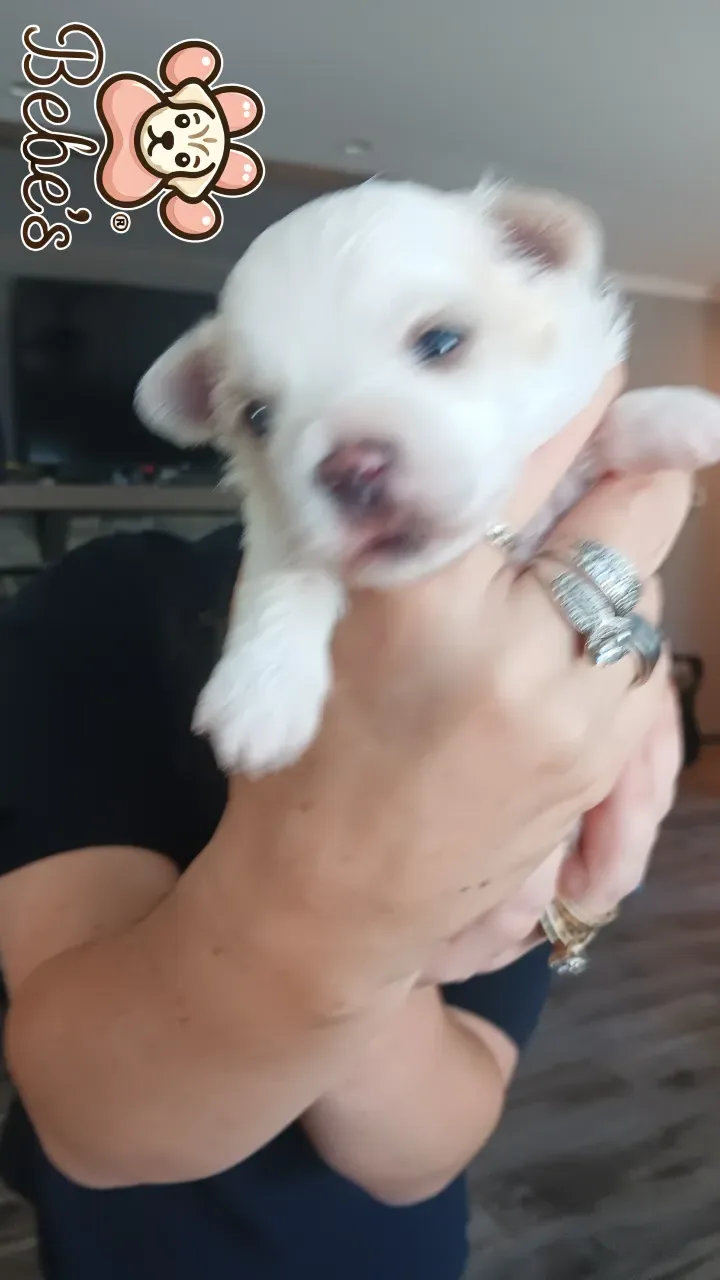
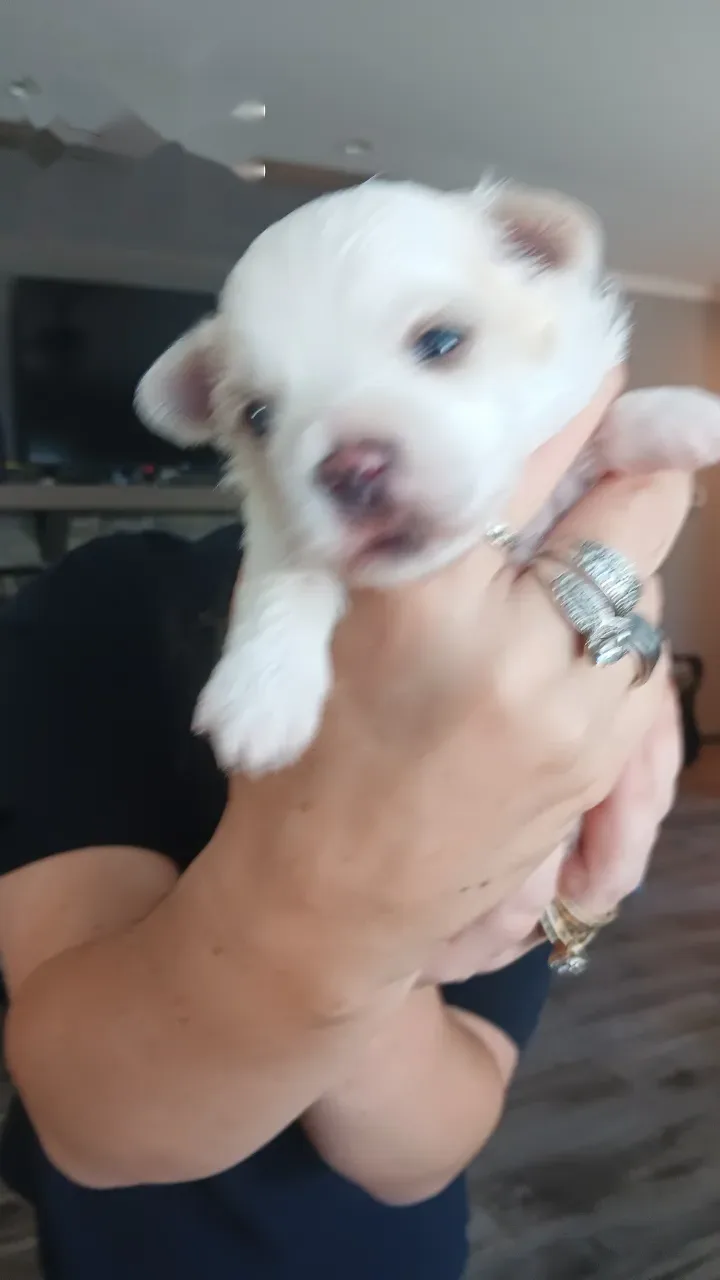
BeBe's: portrait photo frames so puppies aren't cropped out; inpaint rotated watermark

Changed region(s): [[0.0306, 0.0, 0.3667, 0.2188]]

diff --git a/preview/bebes-puppies/site.css b/preview/bebes-puppies/site.css
@@ -115,7 +115,8 @@ p{margin:0 0 1em}
 /* litters strip (home) */
 .litters{display:grid;grid-template-columns:repeat(4,1fr);gap:18px}
 .litter{position:relative;display:block;text-decoration:none;color:inherit;background:#fff;border-radius:var(--r);overflow:hidden;box-shadow:0 1px 0 var(--line),0 14px 30px -18px rgba(59,36,22,.35)}
-.litter .ph{aspect-ratio:4/5;border-radius:0}
+.litter .ph{aspect-ratio:3/4;border-radius:0}
+.litter .ph img{object-position:50% 12%}
 .litter .lit-body{padding:16px 18px 18px}
 .litter h3{font-size:22px;margin:0 0 4px}
 .litter p{font-size:15px;color:var(--cocoa-2);margin:0}
@@ -230,13 +231,13 @@ form.inq .note{font-size:13px;color:var(--cocoa-3);margin:12px 0 0;text-align:ce
 .filters{display:flex;flex-wrap:wrap;gap:8px;margin:0 0 30px}
 .filters button{font:600 15px/1 var(--body);background:#fff;color:var(--cocoa);border:2px solid var(--line);border-radius:999px;padding:11px 16px;cursor:pointer}
 .filters button[aria-pressed=true]{background:var(--cocoa);color:#fff;border-color:var(--cocoa)}
-.listing{display:grid;grid-template-columns:1fr 1fr;gap:28px}
+.listing{display:grid;grid-template-columns:repeat(3,1fr);gap:22px}
 .lcard{background:#fff;border-radius:var(--r);overflow:hidden;box-shadow:0 1px 0 var(--line),0 18px 40px -26px rgba(59,36,22,.4);display:grid;grid-template-rows:auto 1fr}
 .lcard.hide{display:none}
-.lcard .gal{position:relative;aspect-ratio:4/3;background:var(--cream-2)}
+.lcard .gal{position:relative;aspect-ratio:3/4;background:var(--cream-2)}
 .lcard .gal .slides{display:flex;height:100%;overflow-x:auto;scroll-snap-type:x mandatory;scrollbar-width:none;-webkit-overflow-scrolling:touch}
 .lcard .gal .slides::-webkit-scrollbar{display:none}
-.lcard .gal .slides img{flex:0 0 100%;width:100%;height:100%;object-fit:cover;scroll-snap-align:start}
+.lcard .gal .slides img{flex:0 0 100%;width:100%;height:100%;object-fit:cover;object-position:50% 12%;scroll-snap-align:start}
 .lcard .gal .cnt{position:absolute;left:14px;bottom:12px;background:rgba(59,36,22,.75);color:#fff;font:600 13px/1 var(--body);padding:8px 11px;border-radius:999px;display:flex;align-items:center;gap:6px}
 .lcard .gal .cnt svg{width:14px;height:14px;fill:#fff}
 .lcard .gal .arr{position:absolute;top:50%;transform:translateY(-50%);width:42px;height:42px;border-radius:50%;background:#fff;border:0;display:grid;place-items:center;cursor:pointer;box-shadow:0 6px 14px rgba(59,36,22,.25)}
@@ -244,14 +245,15 @@ form.inq .note{font-size:13px;color:var(--cocoa-3);margin:12px 0 0;text-align:ce
 .lcard .gal .arr.l{left:12px}.lcard .gal .arr.r{right:12px}
 .lcard .gal .bone{position:absolute;top:14px;right:12px}
 .lcard .lb{padding:22px 24px 24px;display:grid;gap:6px;align-content:start}
-.lcard h2{font-size:clamp(24px,2.4vw,30px);margin:0}
+.lcard h2{font-size:clamp(22px,2vw,26px);margin:0}
 .lcard .meta{display:flex;flex-wrap:wrap;gap:8px;margin:4px 0 8px}
 .lcard .meta span{font:600 13px/1 var(--body);background:var(--cream-2);color:var(--cocoa-2);padding:8px 11px;border-radius:999px}
 .lcard .meta span.ready{background:var(--peach);color:var(--cocoa)}
 .lcard p{margin:0;color:var(--cocoa-2);font-size:16px}
 .lcard .actions{display:flex;flex-wrap:wrap;gap:10px;margin-top:14px}
-.lcard .actions .btn{padding:13px 20px;font-size:15px}
-@media (max-width:860px){.listing{grid-template-columns:1fr;gap:20px}.lcard .lb{padding:18px}.lcard .actions .btn{flex:1 1 auto;justify-content:center}}
+.lcard .actions .btn{padding:13px 16px;font-size:15px;flex:1 1 auto;justify-content:center}
+@media (max-width:1000px){.listing{grid-template-columns:1fr 1fr}}
+@media (max-width:640px){.listing{grid-template-columns:1fr;gap:20px}.lcard .lb{padding:18px}.lcard .actions .btn{flex:1 1 auto;justify-content:center}}
 .gallery{display:grid;grid-template-columns:repeat(4,1fr);gap:14px}
 .gallery .ph{aspect-ratio:4/5}
 @media (max-width:700px){.gallery{grid-template-columns:repeat(2,1fr)}}

diff --git a/preview/bebes-puppies/contact.html b/preview/bebes-puppies/contact.html
@@ -17,7 +17,7 @@
 -->
 <link rel="preconnect" href="https://fonts.googleapis.com"><link rel="preconnect" href="https://fonts.gstatic.com" crossorigin>
 <link href="https://fonts.googleapis.com/css2?family=Fredoka:wght@500;600&family=Nunito:ital,wght@0,400;0,600;0,700;1,400&display=swap" rel="stylesheet">
-<link rel="stylesheet" href="site.css?v=3">
+<link rel="stylesheet" href="site.css?v=4">
 <link rel="icon" href="img/logo.webp">
 </head>
 <body data-page="contact">

diff --git a/preview/bebes-puppies/puppies.html b/preview/bebes-puppies/puppies.html
@@ -17,7 +17,7 @@
 -->
 <link rel="preconnect" href="https://fonts.googleapis.com"><link rel="preconnect" href="https://fonts.gstatic.com" crossorigin>
 <link href="https://fonts.googleapis.com/css2?family=Fredoka:wght@500;600&family=Nunito:ital,wght@0,400;0,600;0,700;1,400&display=swap" rel="stylesheet">
-<link rel="stylesheet" href="site.css?v=3">
+<link rel="stylesheet" href="site.css?v=4">
 <link rel="icon" href="img/logo.webp">
 </head>
 <body data-page="puppies">

diff --git a/preview/bebes-puppies/about.html b/preview/bebes-puppies/about.html
@@ -17,7 +17,7 @@
 -->
 <link rel="preconnect" href="https://fonts.googleapis.com"><link rel="preconnect" href="https://fonts.gstatic.com" crossorigin>
 <link href="https://fonts.googleapis.com/css2?family=Fredoka:wght@500;600&family=Nunito:ital,wght@0,400;0,600;0,700;1,400&display=swap" rel="stylesheet">
-<link rel="stylesheet" href="site.css?v=3">
+<link rel="stylesheet" href="site.css?v=4">
 <link rel="icon" href="img/logo.webp">
 </head>
 <body data-page="about">

diff --git a/preview/bebes-puppies/index.html b/preview/bebes-puppies/index.html
@@ -17,7 +17,7 @@
 -->
 <link rel="preconnect" href="https://fonts.googleapis.com"><link rel="preconnect" href="https://fonts.gstatic.com" crossorigin>
 <link href="https://fonts.googleapis.com/css2?family=Fredoka:wght@500;600&family=Nunito:ital,wght@0,400;0,600;0,700;1,400&display=swap" rel="stylesheet">
-<link rel="stylesheet" href="site.css?v=3">
+<link rel="stylesheet" href="site.css?v=4">
 <link rel="icon" href="img/logo.webp">
 </head>
 <body data-page="home">
